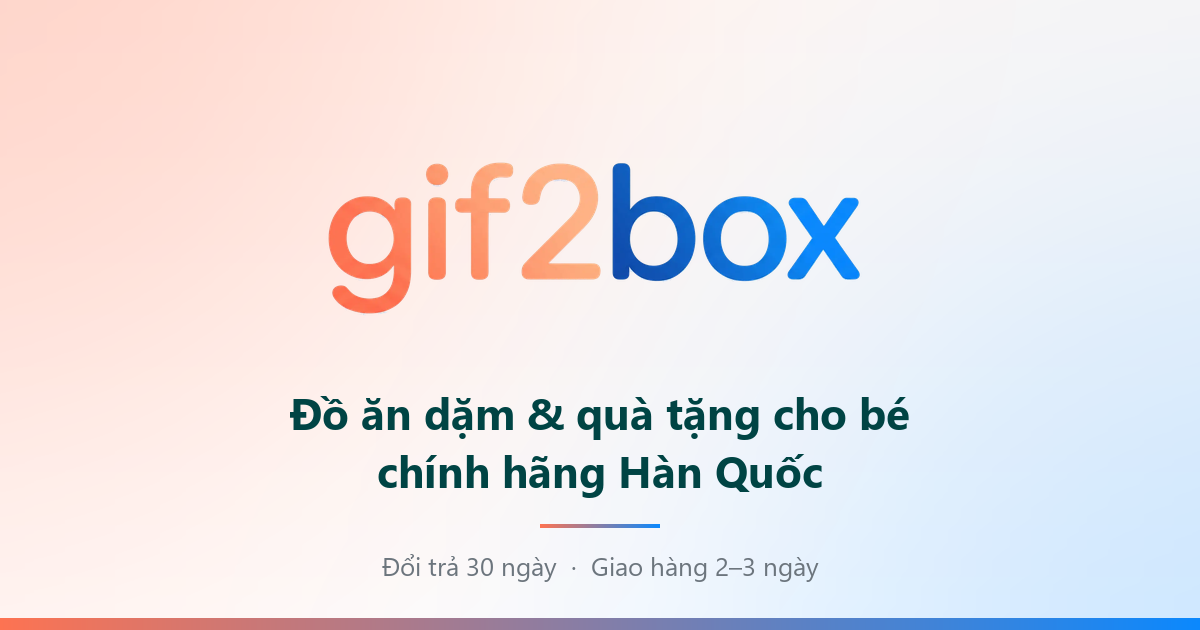
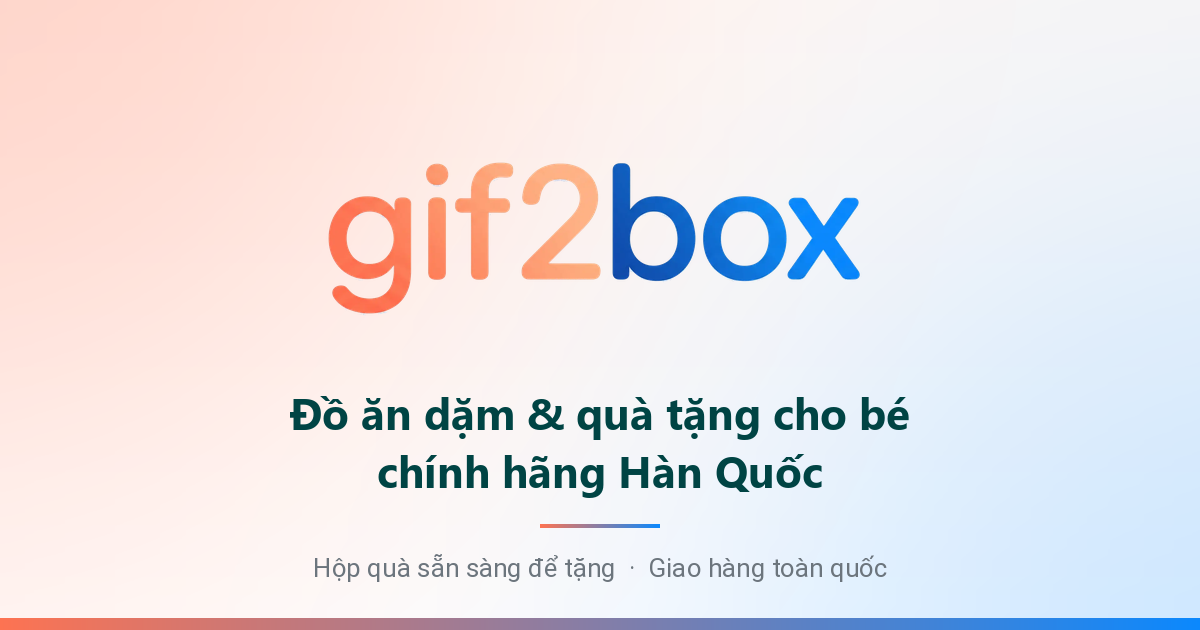
gif2box_theme_home: drop the 30-day returns and 2-3 day delivery from the share card
The card shown when the site is shared promised "Đổi trả 30 ngày · Giao
hàng 2–3 ngày". The return policy gives 7 days, none for gift products,
and delivery takes 1 to 7 working days depending on the area. It now says
what holds everywhere: gift boxes ready to give, nationwide delivery.

The tool falls back to Roboto when Segoe UI is missing, so the card can be
redrawn inside the Odoo container.

Changed region(s): [[0.2467, 0.8746, 0.74, 0.9349]]

diff --git a/customize/gif2box_theme_home/tools/make_social_share.py b/customize/gif2box_theme_home/tools/make_social_share.py
@@ -24,10 +24,21 @@ INK = (0, 68, 68)
 MUTED = (108, 117, 125)
 
 HEADLINE = ['Đồ ăn dặm & quà tặng cho bé', 'chính hãng Hàn Quốc']
-FOOTNOTE = 'Đổi trả 30 ngày  ·  Giao hàng 2–3 ngày'
+# Only what the shop's policies promise. The first card said "30-day
+# returns, 2-3 day delivery": the return policy gives 7 days, and none for
+# gift products, and delivery takes 1 to 7 working days depending on where.
+FOOTNOTE = 'Hộp quà sẵn sàng để tặng  ·  Giao hàng toàn quốc'
 
-FONT_BOLD = r'C:\Windows\Fonts\segoeuib.ttf'
-FONT_REG = r'C:\Windows\Fonts\segoeui.ttf'
+# Segoe UI where it exists (the card was first drawn on Windows), else
+# Roboto, the site's own text face, as installed in the Odoo image.
+_FONTS = {
+    'bold': [r'C:\Windows\Fonts\segoeuib.ttf',
+             '/usr/share/fonts/truetype/roboto/unhinted/RobotoTTF/Roboto-Bold.ttf'],
+    'regular': [r'C:\Windows\Fonts\segoeui.ttf',
+                '/usr/share/fonts/truetype/roboto/unhinted/RobotoTTF/Roboto-Regular.ttf'],
+}
+FONT_BOLD = next((f for f in _FONTS['bold'] if os.path.exists(f)), _FONTS['bold'][-1])
+FONT_REG = next((f for f in _FONTS['regular'] if os.path.exists(f)), _FONTS['regular'][-1])
 
 
 def vertical_wash(size, top, bottom):
